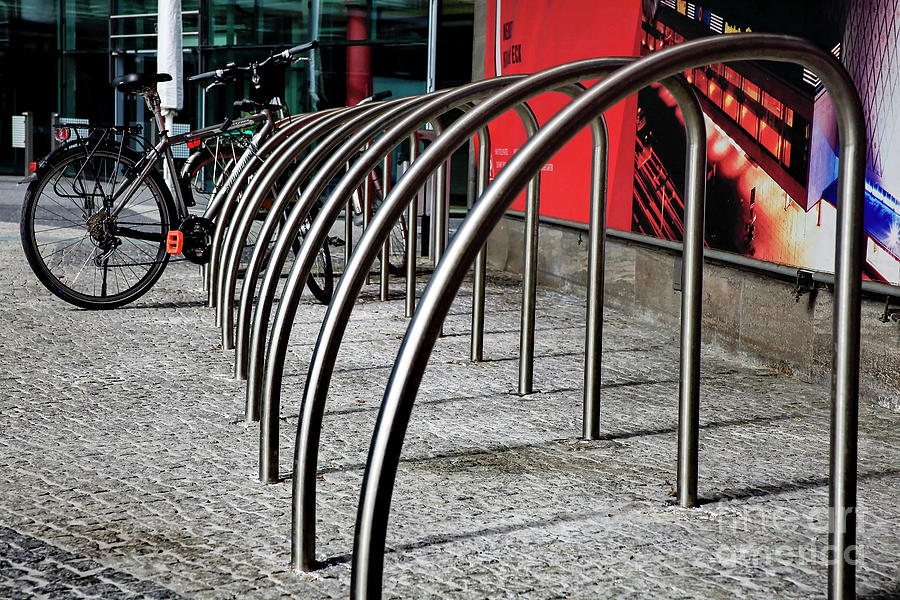
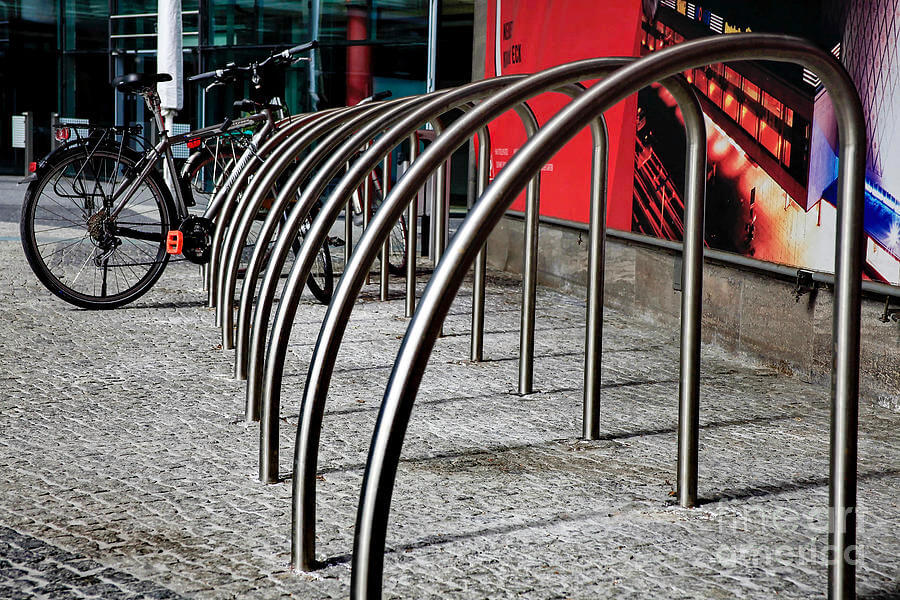
сжатие изображения

diff --git a/index.html b/index.html
@@ -70,6 +70,16 @@
             <span class="new-items-card__description">Скамья садовая </span>
             <span class="new-items-card__price">200 руб</span>
         </div>
+        <div class="new-items-card">
+            <img src="" alt="">
+            <span class="new-items-card__description">Скамья садовая </span>
+            <span class="new-items-card__price">200 руб</span>
+        </div>
+        <div class="new-items-card">
+            <img src="" alt="">
+            <span class="new-items-card__description">Скамья садовая </span>
+            <span class="new-items-card__price">200 руб</span>
+        </div>
     </section>
     <script src="script.js"></script>
 </body>

diff --git a/style.css b/style.css
@@ -4,6 +4,10 @@ body{
     color: #cccbcb;
     font-size: 18px;
     transition: .3s;
+    font-family:sans-serif ;
+}
+a{
+    text-decoration: none;
 }
 .nav{
     display: flex;
